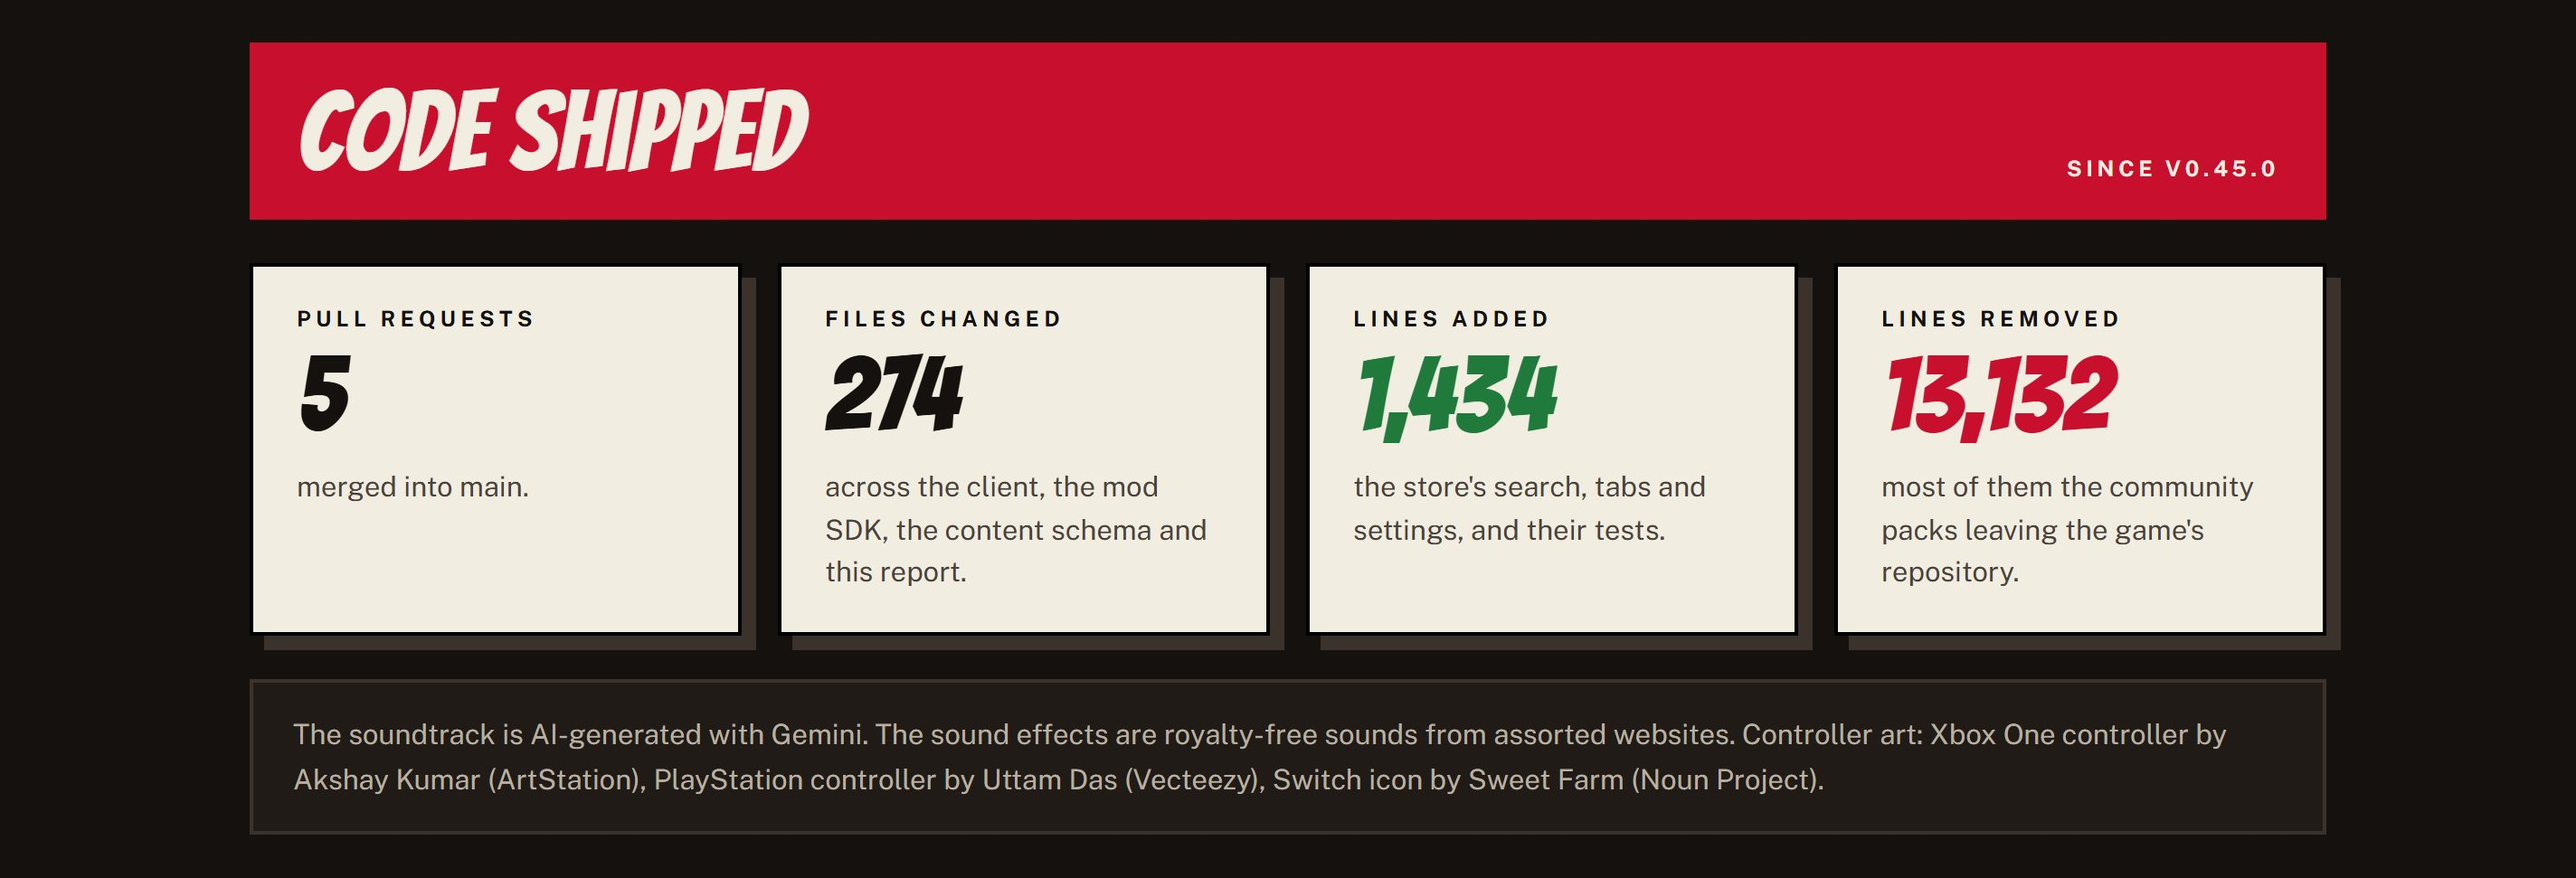
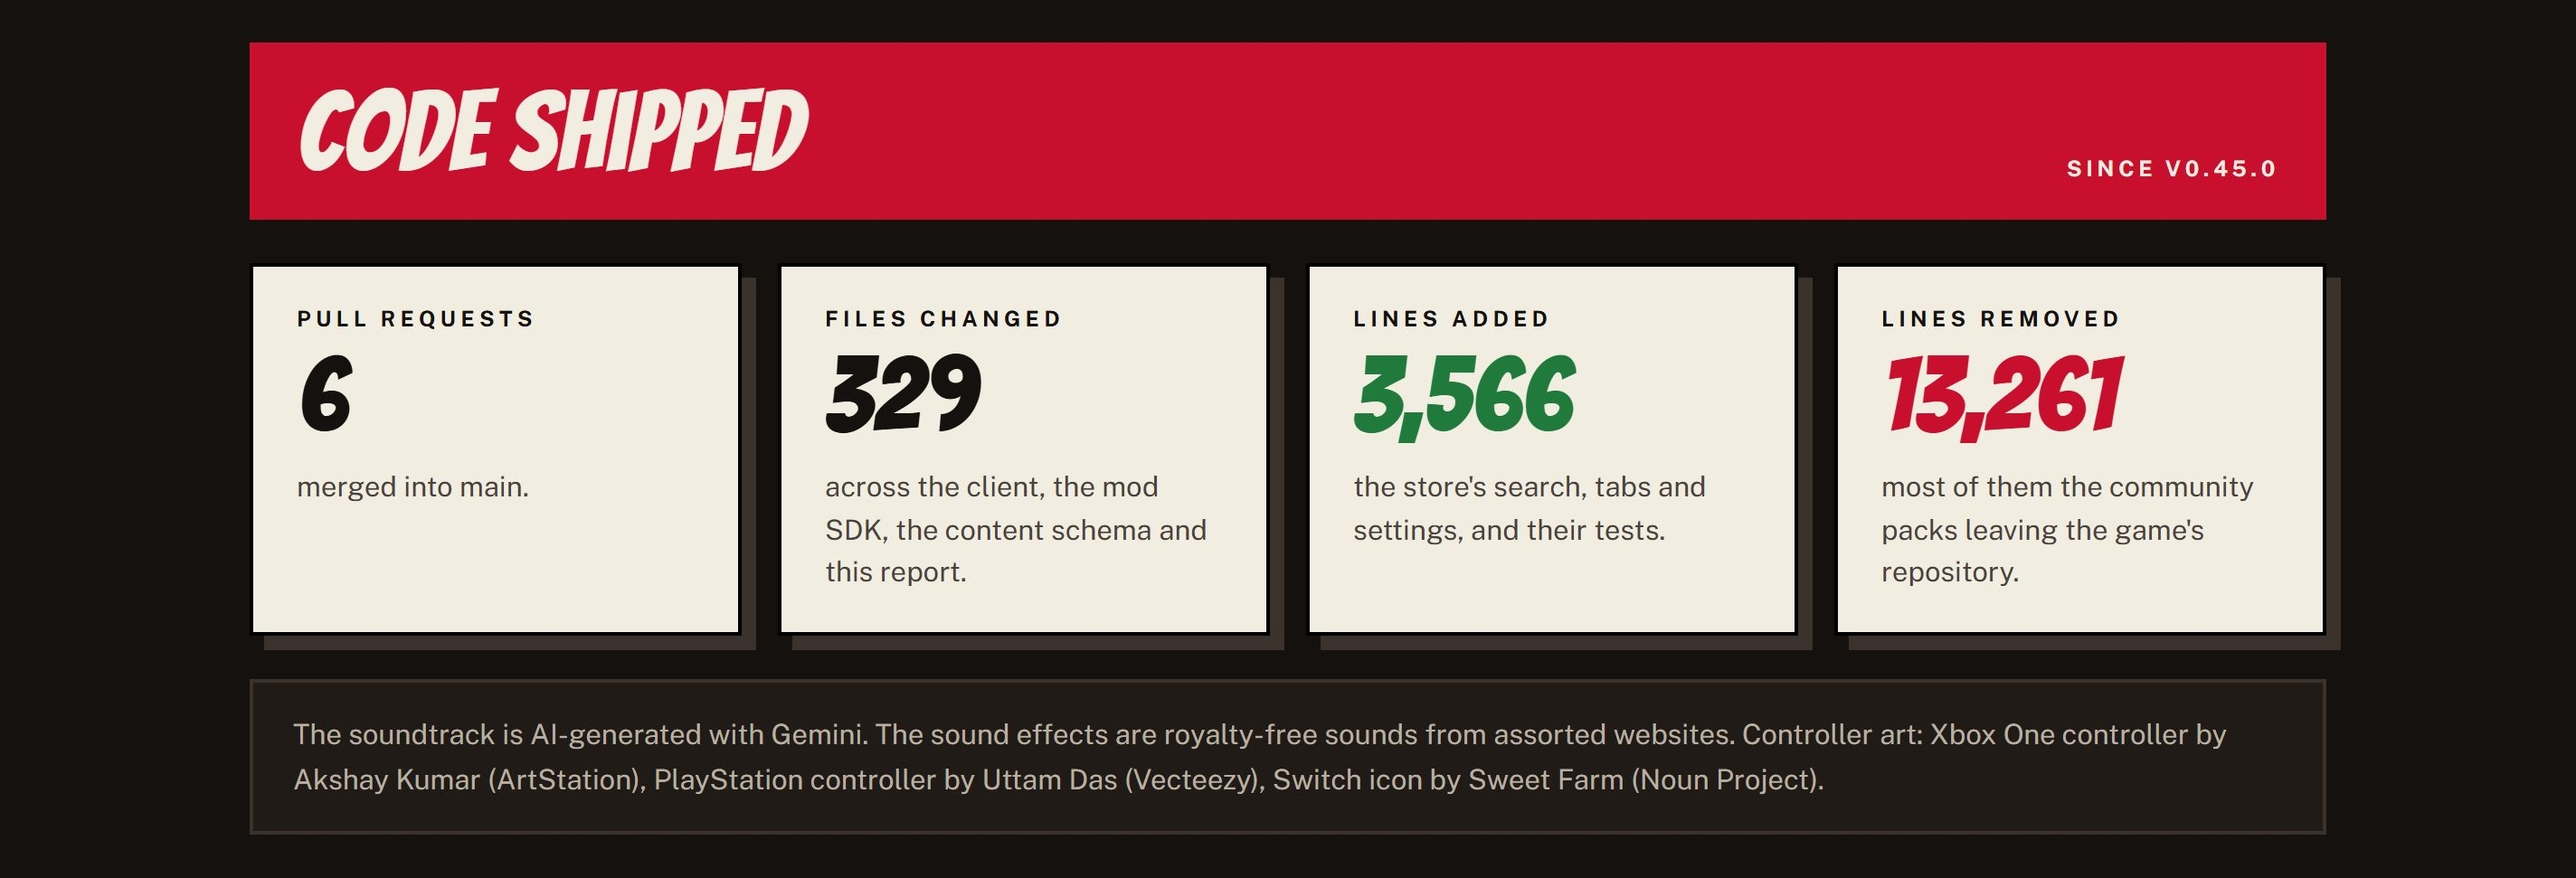
Recount Code shipped for v0.46.0 after #737, add its notes in Spanish, re-cut the images

diff --git a/packages/client/public/releases/v0.46.0/index.html b/packages/client/public/releases/v0.46.0/index.html
@@ -875,22 +875,22 @@
       <section class="stats" aria-label="Code shipped since v0.45.0">
         <div class="tile">
           <h4>Pull requests</h4>
-          <div class="n">5</div>
+          <div class="n">6</div>
           <p>merged into main.</p>
         </div>
         <div class="tile">
           <h4>Files changed</h4>
-          <div class="n">274</div>
+          <div class="n">329</div>
           <p>across the client, the mod SDK, the content schema and this report.</p>
         </div>
         <div class="tile">
           <h4>Lines added</h4>
-          <div class="n c-green">1,434</div>
+          <div class="n c-green">3,566</div>
           <p>the store's search, tabs and settings, and their tests.</p>
         </div>
         <div class="tile">
           <h4>Lines removed</h4>
-          <div class="n c-red">13,132</div>
+          <div class="n c-red">13,261</div>
           <p>most of them the community packs leaving the game's repository.</p>
         </div>
       </section>

diff --git a/docs/releases/es/v0.46.0.md b/docs/releases/es/v0.46.0.md
@@ -18,6 +18,8 @@ La Mod Store pasa al menú principal, con todo lo que pidió @bluefireF5ran desp
 
 ### Added
 
+- La Mod Store está en el menú principal (y hay un botón de tienda junto a la música en tabletas y escritorio), con una pestaña Extras para reglas de la casa y otros complementos, una pestaña Credits para los creadores, y un buscador, un orden y etiquetas. Gracias a bluefireF5ran por sus notas de prueba (#734).
+- Settings > More > Custom content: pon los héroes y escenarios de los packs instalados arriba, abajo o mezclados junto a la oleada que nombra un pack, y elige si el contenido personalizado empieza desbloqueado o se desbloquea como eligió su creador (puntos de campeón o victorias). El contenido personalizado ahora lleva la insignia MOD PACK (#734).
 - El informe de la versión v0.46.0 tiene su propia página en el sitio, en /releases/v0.46.0/
 
 ### Changed
@@ -30,6 +32,10 @@ La Mod Store pasa al menú principal, con todo lo que pidió @bluefireF5ran desp
 - La Mod Store ya no se bloquea en teléfonos Android la primera vez que se abre: los retratos redondos de Deadpool y Spider-Man del aviso se preparan como discos en lugar de dibujarse con una máscara circular, que hacía que el juego dejara de dibujar tras la frase de Deadpool (#733). Los retratos de la información de Team-Up reciben la misma corrección.
 - Las instalaciones de la Mod Store vuelven a funcionar en Android: la comprobación de tamaño de la descarga contaba los saltos de línea del cuerpo en base64 de Android como datos, así que cada pack parecía un 1% más grande que su tamaño en el catálogo y se rechazaba.
 - La prueba e2e de PageDown en Take your seats vuelve a pulsar RB cuando la primera pulsación cae en los fotogramas que descarta la protección del mando, en lugar de fallar con la suite cargada.
+
+### Content
+
+- Los packs de mods pueden definir sus propias etiquetas de búsqueda en la tienda, la oleada junto a la que van sus héroes y escenarios, y cómo se desbloquean cuando el contenido personalizado no empieza desbloqueado (#734).
 
 ### Docs
 
